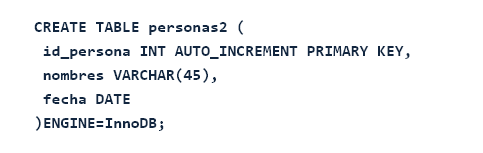
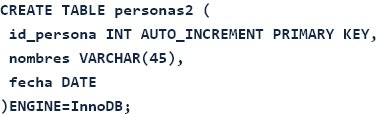
Ajuste de imagenes

diff --git a/src/views/Tema2.vue b/src/views/Tema2.vue
@@ -358,13 +358,13 @@
           .col-lg-8
             .tarjeta--gris.p-4
               figure
-                img(src='@/assets/curso/t2-c18.svg' alt='ejemplo de tabla')      
+                img.nW(src='@/assets/curso/t2-c18.png' alt='ejemplo de tabla')      
         p.mb-5  O su semejante:
         .row.justify-content-center.mb-5
           .col-lg-8
             .tarjeta--gris.p-4
               figure
-                img(src='@/assets/curso/t2-c19.svg' alt='ejemplo de tabla')      
+                img.nW(src='@/assets/curso/t2-c19.png' alt='ejemplo de tabla')      
     h3.titulo-tercero
       span.squareLetter J
       | Claves Únicas
@@ -379,7 +379,7 @@
           .col-lg-8
             .tarjeta--gris.p-4
               figure
-                img(src='@/assets/curso/t2-c20.svg' alt='ejemplo de tabla')      
+                img.nW(src='@/assets/curso/t2-c20.png' alt='ejemplo de tabla')      
         p.mb-3  Los índices son útiles para optimizar las consultas y las búsquedas de datos. Por medio de su uso es mucho más eficiente encontrar filas con ciertos valores de columnas, o mostrar los resultados en cierto orden. La alternativa es realizar búsquedas secuenciales (sin índices), que en tablas extensas requieren mucho tiempo y procesamiento de datos.
 
     Separador
@@ -394,19 +394,19 @@
     .row.justify-content-center.mb-5
       .col-lg-6
         figure(data-aos="fade-up", data-aos-delay='50')
-          img(src='@/assets/curso/t2-i3.png' alt='ejemplo de innoBD')   
+          img.nW(src='@/assets/curso/t2-i3.png' alt='ejemplo de innoBD')   
     p.mb-5  Primero se crea la tabla persona:
     .row.justify-content-center.mb-5
       .col-lg-8
         .tarjeta--gris.p-4
           figure
-            img(src='@/assets/curso/t2-c21.svg' alt='ejemplo de tabla')      
+            img.nW(src='@/assets/curso/t2-c21.png' alt='ejemplo de tabla')      
     p.mb-5  Si se quiere crear una base de datos que corresponda al modelo que se está presentando en la gráfica anterior las sentencias para la tabla teléfonos con la referencia a la tabla sería:
     .row.justify-content-center.mb-5
       .col-lg-8
         .tarjeta--gris.p-4
           figure
-            img(src='@/assets/curso/t2-c22.svg' alt='ejemplo de tabla')      
+            img.nW(src='@/assets/curso/t2-c22.png' alt='ejemplo de tabla')      
    
     p.mb-4  Se ha usado una definición a modo referencia para la columna 
       span.etiqueta  “numero” 
@@ -450,14 +450,14 @@
       .col-lg-8
         .tarjeta--gris.p-4
           figure
-            img(src='@/assets/curso/t2-c23.svg' alt='ejemplo de tabla')      
+            img.nW(src='@/assets/curso/t2-c23.png' alt='ejemplo de tabla')      
     p.mb-4  Miremos otra variante de la misma sintaxis definiendo explícitamente que se usará el motor InnoDB para que las reglas de restricción de integridad apliquen:
 
     .row.justify-content-center.mb-5
       .col-lg-8
         .tarjeta--gris.p-4
           figure
-            img(src='@/assets/curso/t2-c24.svg' alt='ejemplo de tabla') 
+            img.nW(src='@/assets/curso/t2-c24.png' alt='ejemplo de tabla') 
 
     p.mb-5  Y también para la tabla 
       span.etiqueta telefonos2:
@@ -465,7 +465,7 @@
       .col-lg-8
         .tarjeta--gris.p-4
           figure
-            img(src='@/assets/curso/t2-c25.svg' alt='ejemplo de tabla')      
+            img.nW(src='@/assets/curso/t2-c25.png' alt='ejemplo de tabla')      
     p.mb-5  Es necesario que la columna que posee una definición de clave foránea esté indexada 
       span.etiqueta KEY(numero). 
       | Sin embargo, esto no debe de generar preocupación, ya que si no se hace de forma clara, MySQL lo hará de forma implícita.
@@ -484,8 +484,7 @@
             .col-lg-12.light-yellow.d-flex.align-items-center
               .content-box.text-center.min-p
                 .h3 
-                  code
-                    ON DELETE &lt;opcion&gt;,
+                  code  ON DELETE &lt;opcion&gt;,
 
             .col-lg-12.p-4
               p.mb-4 Define las acciones que deben de realizar en la tabla actual, <b>cuando se elimine una fila en la tabla referenciada.</b>
@@ -497,8 +496,7 @@
             .col-lg-12.light-yellow.d-flex.align-items-center
               .content-box.text-center.min-p
                 .h3 
-                  code
-                    ON UPDATE &lt;opcion&gt;,
+                  code  ON UPDATE &lt;opcion&gt;,
 
             .col-lg-12.p-4
               p.mb-4 Es semejante, define las acciones que deben de realizar en la tabla actual, <b>cuando se modifique o actualice la columna de una fila en la tabla referenciada.</b> 
@@ -526,14 +524,14 @@
 
           .tarjeta.color-acento-botones--borde.p-5(titulo="5. SET DEFAULT")
             h3.mb-4.etiqueta SET DEFAULT
-            p borrar o alterar una clave en una fila en la tabla referenciada con un valor explícito involucra asignar el valor por defecto a las claves foráneas con el mismo valor. (MySQL 8.0 Reference Manual, 2021)
+            p Borrar o alterar una clave en una fila en la tabla referenciada con un valor explícito involucra asignar el valor por defecto a las claves foráneas con el mismo valor. (MySQL 8.0 Reference Manual, 2021)
     .row.mb-5
       .col-lg-3
         p.mb-5.text-bold  Ejemplo:
       .col-lg-7
         .tarjeta--gris.p-4
           figure
-            img(src='@/assets/curso/t2-c26.svg' alt='ejemplo de tabla') 
+            img.nW(src='@/assets/curso/t2-c26.png' alt='ejemplo de tabla') 
 
     p.mb-4  Si se pretende borrar una fila de 
       span.etiqueta personas3 
@@ -565,13 +563,13 @@
             span.etiqueta personas3
         .tarjeta--gris.p-4.h-100
           figure
-            img(src='@/assets/curso/t2-c27.svg' alt='ejemplo de tabla') 
+            img(src='@/assets/curso/t2-c27.png' alt='ejemplo de tabla') 
       .col-lg-5
         figcaption.customCaption.mb-2  Datos de la tabla 
             span.etiqueta telefonos3
         .tarjeta--gris.p-4.h-100
           figure
-            img(src='@/assets/curso/t2-c28.svg' alt='ejemplo de tabla') 
+            img.nW(src='@/assets/curso/t2-c28.png' alt='ejemplo de tabla') 
 
     p.mb-5  Si se intenta borrar la fila correspondiente a "Fulanito" se provocará un error, debido a que hay dos filas en 
     span.etiqueta 'teléfonos3' 
@@ -600,12 +598,12 @@
     .row.justify-content-center.mb-5
       .col-lg-8.mb-5
         .tarjeta--gris.p-4
-          code
-            DROP TABLE [IF EXISTS] tbl_name [, tbl_name]
+          figure
+            img.nW(src='@/assets/curso/t2-c29-1.png' alt='ejemplo de tabla')
       .col-lg-8.mb-5
         .tarjeta--gris.p-4
-          pre
-            code mysql&gt; DROP TABLE telefonos2; <br>Query OK, 0 rows affected (0.75 sec)<br>mysql&gt;  
+          figure
+            img.nW(src='@/assets/curso/t2-c29.png' alt='ejemplo de tabla')
     p.mb-5  Se puede agregar las palabras
       span.etiqueta IF EXISTS
       | para impedir errores si la tabla a eliminar no existe.       
@@ -621,7 +619,7 @@
       .col-lg-8
         .tarjeta--gris.p-4
           figure
-            img.nW(src='@/assets/curso/t2-c31.svg' alt='ejemplo de tabla') 
+            img.nW(src='@/assets/curso/t2-c31.png' alt='ejemplo de tabla') 
         figcaption  Nota: MySQL 8.0 Reference Manual (2021).
    
     .tarjeta-azul
